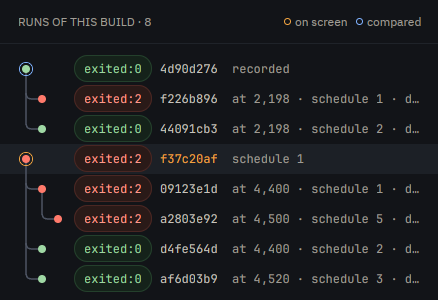
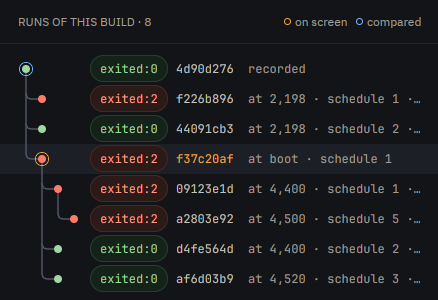
Hang check's runs off the recorded run
A run from boot under another schedule, the kind rewind check makes,
had no line to anything in the Runs panel, so a family of 600 schedules
read as 600 unrelated trees. They now hang under the recorded run, after
its forks, as "at boot · schedule N".

Identical traces are still compared only along fork links, the runs
rewind prune --identical reaches from the run it is given, so the
panel's count of identical forks matches what prune removes.

Claude-Session: https://claude.ai/code/session_01JHGPYecv1PHANiG4SNwbAJ

Changed region(s): [[0.0297, 0.18, 0.9498, 0.99]]

diff --git a/crates/rewind-app/src/family.rs b/crates/rewind-app/src/family.rs
@@ -145,9 +145,10 @@ impl Row {
     pub fn detail(&self) -> String {
         let run = &self.run;
         let Some(parent) = &run.parent else {
-            return match run.schedule {
-                0 => "recorded".to_string(),
-                n => format!("schedule {n}"),
+            return match (run.schedule, self.depth) {
+                (0, _) => "recorded".to_string(),
+                (n, 0) => format!("schedule {n}"),
+                (n, _) => format!("at boot \u{b7} schedule {n}"),
             };
         };
         let mut words = format!(
@@ -237,11 +238,27 @@ impl Family {
                 _ => roots.push(run),
             }
         }
-        let base_id = self.base().id.clone();
+        // The recorded run, under the unperturbed schedule, is where every
+        // run of the build starts: the runs rewind check made from boot
+        // under other schedules hang off it like forks at step 0, after
+        // its real forks.
+        let base = self.base();
+        let base_id = base.id.clone();
+        if base.parent.is_none() && base.schedule == 0 {
+            let (from_boot, rest): (Vec<&RunEntry>, Vec<&RunEntry>) = roots
+                .into_iter()
+                .partition(|r| r.id != base_id && r.parent.is_none());
+            roots = rest;
+            children
+                .entry(base.id.as_str())
+                .or_default()
+                .extend(from_boot);
+        }
         roots.sort_by_key(|r| (r.id != base_id, r.schedule, r.created));
         for list in children.values_mut() {
             list.sort_by_key(|r| {
                 (
+                    r.parent.is_none(),
                     r.parent.as_ref().map_or(0, |p| p.step),
                     r.schedule,
                     r.created,
@@ -278,30 +295,34 @@ impl Family {
             }
         }
 
-        // Under each root, the original of a trace is the root when the
-        // root has it, as rewind prune keeps the run it is given, and the
-        // oldest fork with it otherwise.
-        let mut originals: HashMap<(usize, &str), (&RunEntry, bool)> = HashMap::new();
-        for (run, depth, root, _) in &order {
+        // Forks repeat a trace within what rewind prune takes in: a run
+        // without a parent here and every fork below it through parents,
+        // which leaves out the runs from boot drawn under the recorded run.
+        // There the original of a trace is that run when it has the trace,
+        // as prune keeps the run it is given, and the oldest fork otherwise.
+        let mut originals: HashMap<(&str, &str), (&RunEntry, bool)> = HashMap::new();
+        for (run, _, _, _) in &order {
             let Some(hash) = &run.trace_hash else {
                 continue;
             };
-            let is_root = *depth == 0;
+            let top = self.chain_root(run);
+            let is_top = top.id == run.id;
             let original = originals
-                .entry((*root, hash.as_str()))
-                .or_insert((run, is_root));
+                .entry((top.id.as_str(), hash.as_str()))
+                .or_insert((run, is_top));
             let older = (run.created, &run.id) < (original.0.created, &original.0.id);
-            if is_root || (!original.1 && older) {
-                *original = (run, is_root);
+            if is_top || (!original.1 && older) {
+                *original = (run, is_top);
             }
         }
 
         order
             .into_iter()
-            .map(|(run, depth, root, graph)| {
-                let identical_to = match (depth > 0, &run.trace_hash) {
+            .map(|(run, depth, _, graph)| {
+                let top = self.chain_root(run).id.as_str();
+                let identical_to = match (run.parent.is_some(), &run.trace_hash) {
                     (true, Some(hash)) => originals
-                        .get(&(root, hash.as_str()))
+                        .get(&(top, hash.as_str()))
                         .filter(|(original, _)| original.id != run.id)
                         .map(|(original, _)| original.id.clone()),
                     _ => None,
@@ -320,19 +341,30 @@ impl Family {
     /// them, for `rewind prune --identical`.
     pub fn roots_with_identical(&self) -> Vec<RunEntry> {
         let mut roots: Vec<RunEntry> = Vec::new();
-        let mut current: Option<&RunEntry> = None;
-        let rows = self.rows();
-        for row in &rows {
-            if row.depth == 0 {
-                current = Some(&row.run);
+        for row in self.rows() {
+            if row.identical_to.is_none() {
+                continue;
             }
-            if let (Some(_), Some(root)) = (&row.identical_to, current)
-                && !roots.iter().any(|r| r.id == root.id)
-            {
-                roots.push(root.clone());
+            let top = self.chain_root(&row.run);
+            if !roots.iter().any(|r| r.id == top.id) {
+                roots.push(top.clone());
             }
         }
         roots
+    }
+
+    /// The run `run` descends from through parents here, with no parent
+    /// here itself: what rewind prune is given to reach `run`.
+    fn chain_root<'a>(&'a self, run: &'a RunEntry) -> &'a RunEntry {
+        let mut at = run;
+        while let Some(parent) = at
+            .parent
+            .as_ref()
+            .and_then(|p| self.runs.iter().find(|r| r.id == p.id))
+        {
+            at = parent;
+        }
+        at
     }
 
     /// Every run descended from the run `id` through its forks, nearest
@@ -443,7 +475,7 @@ mod tests {
                 ("f1a".to_string(), 2, None),
                 ("dup".to_string(), 1, Some("f1".to_string())),
                 ("f2".to_string(), 1, None),
-                ("check3".to_string(), 0, None),
+                ("check3".to_string(), 1, None),
             ]
         );
     }
@@ -454,8 +486,8 @@ mod tests {
         // ├─ f1
         // │  ╰─ f1a      base's line passes f1a; f1's ends there
         // ├─ dup
-        // ╰─ f2          base's line ends here
-        // check3
+        // ├─ f2
+        // ╰─ check3      from boot, after the forks; base's line ends here
         let graphs: Vec<(String, Graph)> = family()
             .rows()
             .into_iter()
@@ -473,8 +505,8 @@ mod tests {
                 ("f1".to_string(), graph(&[], false, true)),
                 ("f1a".to_string(), graph(&[true], true, false)),
                 ("dup".to_string(), graph(&[], false, false)),
-                ("f2".to_string(), graph(&[], true, false)),
-                ("check3".to_string(), graph(&[], false, false)),
+                ("f2".to_string(), graph(&[], false, false)),
+                ("check3".to_string(), graph(&[], true, false)),
             ]
         );
     }
@@ -514,7 +546,7 @@ mod tests {
                 .unwrap()
         };
         assert_eq!(detail("base"), "recorded");
-        assert_eq!(detail("check3"), "schedule 3");
+        assert_eq!(detail("check3"), "at boot \u{b7} schedule 3");
         assert_eq!(detail("dup"), "at 50 \u{b7} schedule 2 \u{b7} same as f1");
         let mut differs = rows[1].clone();
         differs.run.first_difference = Some(1_204);
@@ -556,6 +588,20 @@ mod tests {
         assert_eq!(ids("f1"), vec!["f1a"]);
         assert_eq!(ids("f1a"), Vec::<&str>::new());
         assert_eq!(ids("base"), vec!["dup", "f1", "f1a", "f2"]);
+    }
+
+    #[test]
+    fn forks_under_a_run_from_boot_are_compared_among_themselves() {
+        // A fork of check3 with f1's trace is not the same as f1: pruning
+        // base does not reach it, and pruning check3 keeps it.
+        let mut cousin = run("cousin", Some(("check3", 40)), 1, "exited:2");
+        cousin.trace_hash = Some("hash-f1".to_string());
+        let mut f = family();
+        f.runs.push(cousin);
+        let rows = f.rows();
+        let row = rows.iter().find(|r| r.run.id == "cousin").unwrap();
+        assert_eq!(row.identical_to, None);
+        assert_eq!(row.depth, 2);
     }
 
     #[test]
